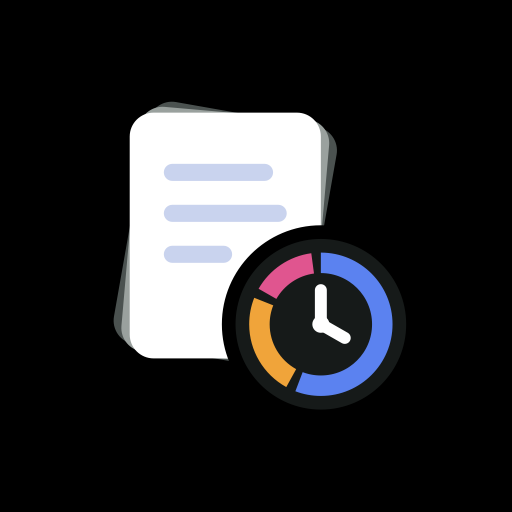
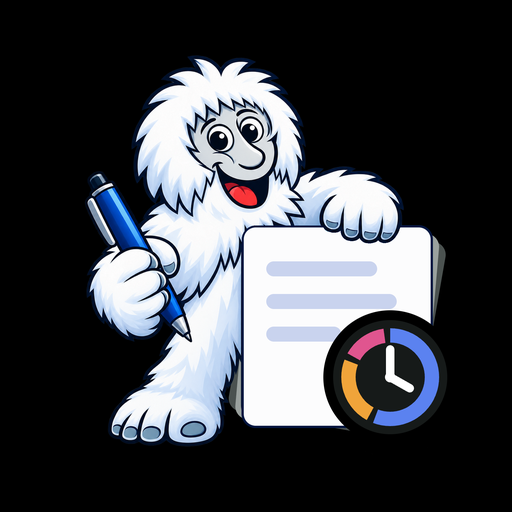
v89: Neues App-Symbol – Yeti mit Kugelschreiber, Stapel auf Schwarz
Vorlage: Entwurf „Yeti mit Kugelschreiber · Stapel auf Schwarz“ (HTML-Export). Wie im Entwurf
zusammengesetzt: schwarzer Grund, SVG (graue Blätter dahinter, weißer Zettel mit Zeilen,
Ring-Uhr), darüber das Yeti-Bild (PNG mit Transparenz), im Browser auf 1254 px gezeichnet.
Daraus apple-touch-icon (180), icon-192, icon-512 und icon-maskable-512 (Inhalt in der
sicheren Zone, 80 %, auf Schwarz). Verweise auf ?v=3 (index.html, Manifest, sw.js,
Sperrbildschirm), damit iPhone und Cache die neuen Bilder holen.

diff --git a/lock.js b/lock.js
@@ -82,7 +82,7 @@ function showLock() {
   document.body.insertAdjacentHTML(
     'beforeend',
     `<div id="lock" role="dialog" aria-modal="true"><div class="lock-bg"></div>
-      <img src="icons/icon-512.png?v=2" alt="" class="lock-icon">
+      <img src="icons/icon-512.png?v=3" alt="" class="lock-icon">
       <b class="lock-title">Std-Protokoll ist gesperrt</b>
       <span class="lock-sub">Mit Face ID entsperren</span>
       <button class="lock-btn" data-lock="open"><svg viewBox="0 0 24 24" fill="none" stroke="currentColor" stroke-width="1.8" stroke-linecap="round"><path d="M4 8V6a2 2 0 0 1 2-2h2M16 4h2a2 2 0 0 1 2 2v2M20 16v2a2 2 0 0 1-2 2h-2M8 20H6a2 2 0 0 1-2-2v-2M9 9.5v1M15 9.5v1M12 9.5v3.5h-1M9.5 15.5c1.4 1.2 3.6 1.2 5 0"/></svg>Entsperren</button>

diff --git a/sw.js b/sw.js
@@ -1,5 +1,5 @@
 // Offline-Cache: Mit Internet wird immer die neueste Version geladen, ohne Internet die gespeicherte.
-const CACHE = 'std-protokoll-v88';
+const CACHE = 'std-protokoll-v89';
 const ASSETS = [
   './',
   'index.html',
@@ -24,10 +24,10 @@ const ASSETS = [
   'karten.js',
   'fonts/special-elite.woff2',
   'manifest.webmanifest',
-  'icons/apple-touch-icon.png?v=2',
-  'icons/icon-192.png?v=2',
-  'icons/icon-512.png?v=2',
-  'icons/icon-maskable-512.png?v=2',
+  'icons/apple-touch-icon.png?v=3',
+  'icons/icon-192.png?v=3',
+  'icons/icon-512.png?v=3',
+  'icons/icon-maskable-512.png?v=3',
 ];
 
 self.addEventListener('install', (event) => {

diff --git a/index.html b/index.html
@@ -21,8 +21,8 @@
 </script>
 <title>Std-Protokoll</title>
 <link rel="manifest" href="manifest.webmanifest">
-<link rel="apple-touch-icon" href="icons/apple-touch-icon.png?v=2">
-<link rel="icon" type="image/png" href="icons/icon-192.png?v=2">
+<link rel="apple-touch-icon" href="icons/apple-touch-icon.png?v=3">
+<link rel="icon" type="image/png" href="icons/icon-192.png?v=3">
 <link rel="stylesheet" href="styles.css">
 </head>
 <body>
